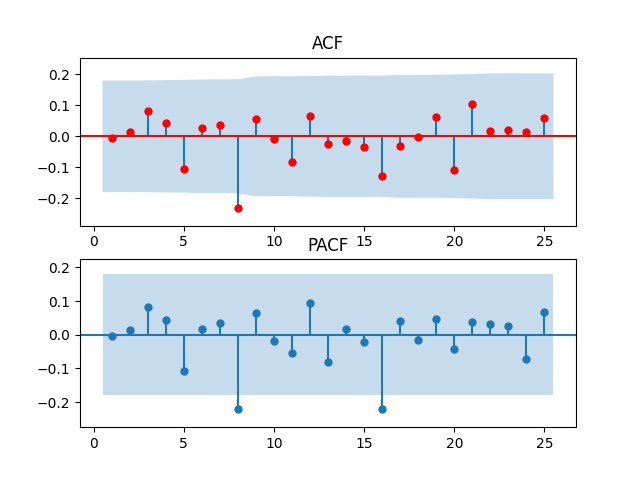
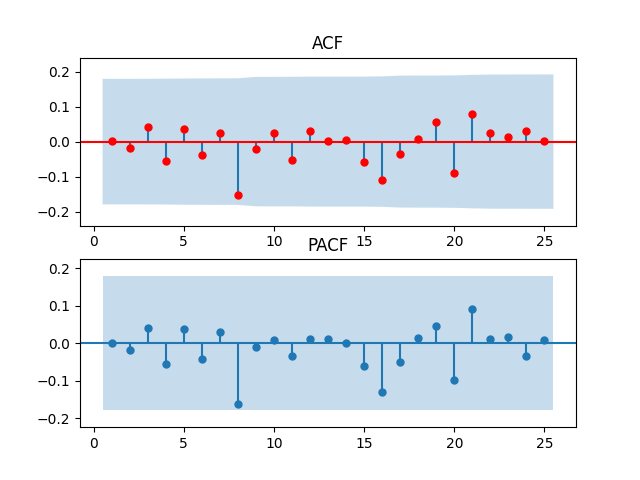
Changed data size to 150 days, so estimating 30 days

diff --git a/arima.py b/arima.py
@@ -22,6 +22,7 @@ def get_ticker(file_name):
     return NameParts[0]
 
 def AICHelper(df, ticker):
+    df = set_df_size(df, 150)
     df.dropna()
 
     train_size = int(len(df)*0.8) #80 / 20 train test split
@@ -143,32 +144,32 @@ def main():
 
 
     # ARIMA 1 AMC
-    CustomARIMAStats(pd.read_csv(dataset_list[0]),ticker_list[0],2,1,1)
-    ARIMAForcast(pd.read_csv(dataset_list[0]),ticker_list[0],0,1,2)
+    CustomARIMAStats(pd.read_csv(dataset_list[0]),ticker_list[0],0,1,1)
+    ARIMAForcast(pd.read_csv(dataset_list[0]),ticker_list[0],0,1,1)
     # ARIMA 2 BHP
-    CustomARIMAStats(pd.read_csv(dataset_list[1]),ticker_list[1],2,1,2)
-    ARIMAForcast(pd.read_csv(dataset_list[1]),ticker_list[1],2,1,2)
+    CustomARIMAStats(pd.read_csv(dataset_list[1]),ticker_list[1],0,1,0)
+    ARIMAForcast(pd.read_csv(dataset_list[1]),ticker_list[1],0,1,0)
     # ARIMA 3 CBA
-    CustomARIMAStats(pd.read_csv(dataset_list[2]),ticker_list[2],1,1,0)
-    ARIMAForcast(pd.read_csv(dataset_list[2]),ticker_list[2],1,1,0)
+    CustomARIMAStats(pd.read_csv(dataset_list[2]),ticker_list[2],0,1,0)
+    ARIMAForcast(pd.read_csv(dataset_list[2]),ticker_list[2],0,1,0)
     # ARIMA 4 CSL
-    CustomARIMAStats(pd.read_csv(dataset_list[3]),ticker_list[3],1,1,0)
-    ARIMAForcast(pd.read_csv(dataset_list[3]),ticker_list[3],1,1,0)
+    CustomARIMAStats(pd.read_csv(dataset_list[3]),ticker_list[3],2,1,2)
+    ARIMAForcast(pd.read_csv(dataset_list[3]),ticker_list[3],2,1,2)
     # ARIMA 5 NAB
-    CustomARIMAStats(pd.read_csv(dataset_list[4]),ticker_list[4],1,1,0)
-    ARIMAForcast(pd.read_csv(dataset_list[4]),ticker_list[4],1,1,0)
+    CustomARIMAStats(pd.read_csv(dataset_list[4]),ticker_list[4],0,1,0)
+    ARIMAForcast(pd.read_csv(dataset_list[4]),ticker_list[4],0,1,0)
     # ARIMA 6 PME
-    CustomARIMAStats(pd.read_csv(dataset_list[5]),ticker_list[5],1,1,0)
-    ARIMAForcast(pd.read_csv(dataset_list[5]),ticker_list[5],1,1,0)
+    CustomARIMAStats(pd.read_csv(dataset_list[5]),ticker_list[5],2,1,2)
+    ARIMAForcast(pd.read_csv(dataset_list[5]),ticker_list[5],2,1,2)
     # ARIMA 7 RIO
-    CustomARIMAStats(pd.read_csv(dataset_list[6]),ticker_list[6],1,1,0)
-    ARIMAForcast(pd.read_csv(dataset_list[6]),ticker_list[6],1,1,0)
+    CustomARIMAStats(pd.read_csv(dataset_list[6]),ticker_list[6],2,1,4)
+    ARIMAForcast(pd.read_csv(dataset_list[6]),ticker_list[6],2,1,4)
     # ARIMA 8 RMD
-    CustomARIMAStats(pd.read_csv(dataset_list[7]),ticker_list[7],1,1,0)   
-    ARIMAForcast(pd.read_csv(dataset_list[7]),ticker_list[7],1,1,0)
+    CustomARIMAStats(pd.read_csv(dataset_list[7]),ticker_list[7],4,1,4)   
+    ARIMAForcast(pd.read_csv(dataset_list[7]),ticker_list[7],4,1,4)
     # ARIMA 9 WBC
-    CustomARIMAStats(pd.read_csv(dataset_list[8]),ticker_list[8],1,1,0)
-    ARIMAForcast(pd.read_csv(dataset_list[8]),ticker_list[8],1,1,0)
+    CustomARIMAStats(pd.read_csv(dataset_list[8]),ticker_list[8],0,1,2)
+    ARIMAForcast(pd.read_csv(dataset_list[8]),ticker_list[8],0,1,2)
 
 
 main()
